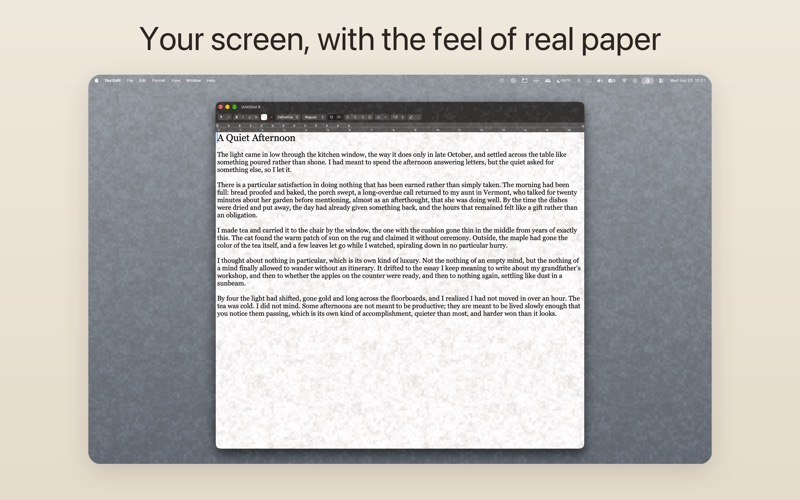
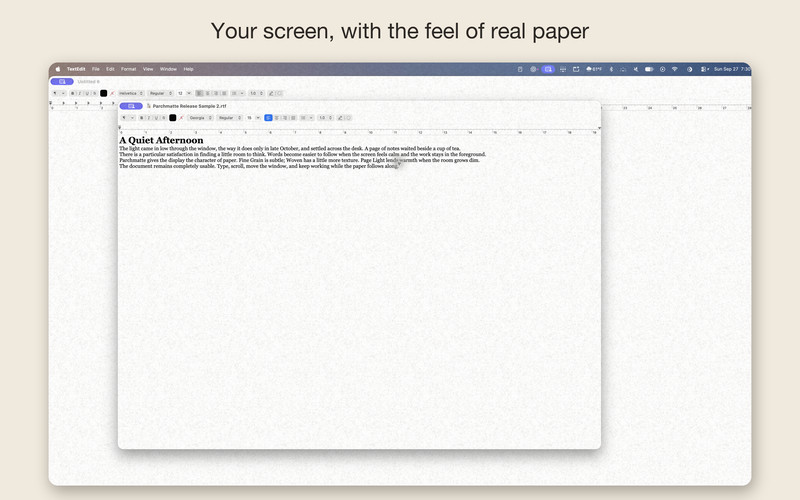
Refresh build 6 website media

diff --git a/index.html b/index.html
@@ -4,22 +4,22 @@
   <meta charset="utf-8">
   <meta name="viewport" content="width=device-width, initial-scale=1">
   <title>Parchmatte · paper for your screen</title>
-  <meta name="description" content="Parchmatte lays a fine paper grain and an optional warm desk-lamp tint over your Mac's screen. Free and open source, or $2.99 on the Mac App Store.">
+  <meta name="description" content="Parchmatte lays a fine paper grain and an optional warm Page Light tint over your Mac's screen. Free and open source, or $2.99 on the Mac App Store.">
   <link rel="icon" href="/favicon.png">
   <link rel="stylesheet" href="/style.css">
   <meta property="og:title" content="Parchmatte">
-  <meta property="og:description" content="A fine paper grain and a warm desk lamp for your Mac's screen.">
+  <meta property="og:description" content="A fine paper grain and warm Page Light for your Mac's screen.">
   <meta property="og:image" content="https://parchmatte.com/images/og.jpg">
   <meta name="twitter:card" content="summary_large_image">
   <meta name="twitter:title" content="Parchmatte">
-  <meta name="twitter:description" content="A fine paper grain and a warm desk lamp for your Mac's screen.">
+  <meta name="twitter:description" content="A fine paper grain and warm Page Light for your Mac's screen.">
   <meta name="twitter:image" content="https://parchmatte.com/images/og.jpg">
 </head>
 <body>
   <header class="hero wrap">
     <img src="/icon.png" alt="" width="112" height="112">
     <h1>Parchmatte</h1>
-    <p class="lede">Parchmatte gives your Mac's display the look and feel of real paper: a fine, matte grain and an optional warm desk lamp.</p>
+    <p class="lede">Parchmatte gives your Mac's display the look and feel of real paper: a fine grain and optional warm Page Light.</p>
   </header>
 
   <main class="wrap">
@@ -59,7 +59,7 @@
           <img class="shot" src="/images/shots/03-texture-1600.jpg" srcset="/images/shots/03-texture-800.jpg 800w, /images/shots/03-texture-1600.jpg 1600w" sizes="(max-width: 700px) 100vw, 50vw" width="1600" height="1000" loading="lazy" alt="Seven real-paper textures">
         </figure>
         <figure>
-          <img class="shot" src="/images/shots/04-desk-lamp-1600.jpg" srcset="/images/shots/04-desk-lamp-800.jpg 800w, /images/shots/04-desk-lamp-1600.jpg 1600w" sizes="(max-width: 700px) 100vw, 50vw" width="1600" height="1000" loading="lazy" alt="Page Light adds a warm tint for evening work">
+          <img class="shot" src="/images/shots/04-page-light-1600.jpg" srcset="/images/shots/04-page-light-800.jpg 800w, /images/shots/04-page-light-1600.jpg 1600w" sizes="(max-width: 700px) 100vw, 50vw" width="1600" height="1000" loading="lazy" alt="Page Light adds a warm tint for evening work">
         </figure>
         <figure>
           <img class="shot" src="/images/shots/05-per-window-1600.jpg" srcset="/images/shots/05-per-window-800.jpg 800w, /images/shots/05-per-window-1600.jpg 1600w" sizes="(max-width: 700px) 100vw, 50vw" width="1600" height="1000" loading="lazy" alt="Give each window its own paper">

diff --git a/scripts/check_release_shots.swift b/scripts/check_release_shots.swift
@@ -1,0 +1,72 @@
+#!/usr/bin/env swift
+// OCR gate for release images. It catches retired visible labels after a UI
+// rename and checks that key build-6 controls survived the final composition.
+import AppKit
+import Vision
+
+guard CommandLine.arguments.count == 3 else {
+    fputs("usage: swift check_release_shots.swift STORE_DIR SITE_SHOTS_DIR\n", stderr)
+    exit(2)
+}
+
+let storeDir = CommandLine.arguments[1]
+let siteDir = CommandLine.arguments[2]
+let stems = [
+    "01-hero", "02-menu", "03-texture", "04-page-light",
+    "05-per-window", "06-schedule",
+]
+let required: [String: [String]] = [
+    "02-menu": ["Page Light", "Strength", "Softness"],
+    "03-texture": [
+        "Fine Grain", "Chalkboard", "Woven", "Imprint", "Soft Leaf", "Felt",
+    ],
+    "04-page-light": ["Page Light", "Candlelight", "Glow"],
+    "05-per-window": ["Remove Paper from TextEdit Window", "Page Light"],
+    "06-schedule": ["Sunset to Sunrise", "Page Light"],
+]
+let retired = ["Desk Lamp", "Linen", "Press", "Vellum"]
+var failures: [String] = []
+
+func recognizedLines(_ path: String) throws -> [String] {
+    guard let image = NSImage(contentsOfFile: path),
+          let cgImage = image.cgImage(forProposedRect: nil, context: nil, hints: nil) else {
+        throw NSError(domain: "release-media", code: 1, userInfo: [
+            NSLocalizedDescriptionKey: "Cannot open \(path)"
+        ])
+    }
+    let request = VNRecognizeTextRequest()
+    request.recognitionLevel = .accurate
+    request.usesLanguageCorrection = false
+    try VNImageRequestHandler(cgImage: cgImage).perform([request])
+    return (request.results ?? []).compactMap { $0.topCandidates(1).first?.string }
+}
+
+for stem in stems {
+    for (kind, path) in [
+        ("store", "\(storeDir)/\(stem).png"),
+        ("site", "\(siteDir)/\(stem)-1600.jpg"),
+    ] {
+        do {
+            let lines = try recognizedLines(path)
+            let text = lines.joined(separator: "\n")
+            for phrase in required[stem] ?? [] where !text.localizedCaseInsensitiveContains(phrase) {
+                failures.append("\(kind) \(stem): missing \(phrase)")
+            }
+            for phrase in retired where text.localizedCaseInsensitiveContains(phrase) {
+                failures.append("\(kind) \(stem): retired label \(phrase)")
+            }
+            if lines.contains(where: { $0.trimmingCharacters(in: .whitespacesAndNewlines) == "Matte" }) {
+                failures.append("\(kind) \(stem): retired label Matte")
+            }
+            print("checked \(kind) \(stem)")
+        } catch {
+            failures.append("\(kind) \(stem): \(error)")
+        }
+    }
+}
+
+if !failures.isEmpty {
+    failures.forEach { fputs("\($0)\n", stderr) }
+    exit(1)
+}
+print("PASS: approved build-6 labels are visible; retired labels are absent")

diff --git a/scripts/render_release_shots.py b/scripts/render_release_shots.py
@@ -1,0 +1,133 @@
+#!/usr/bin/env python3
+"""Render captioned release images from unmodified macOS screen captures.
+
+Requires Pillow. The larger menu panels are crops of the same source capture,
+not recreated UI. Keep the raw captures alongside the store PNGs until review
+finishes, and inspect every final image before publishing it.
+"""
+
+from __future__ import annotations
+
+import argparse
+from dataclasses import dataclass
+from pathlib import Path
+
+from PIL import Image, ImageDraw, ImageFilter, ImageFont
+
+
+@dataclass(frozen=True)
+class Shot:
+    stem: str
+    caption: str
+    menu_crop: tuple[int, int, int, int] | None = None
+
+
+SHOTS = (
+    Shot("01-hero", "Your screen, with the feel of real paper"),
+    Shot("02-menu", "Strength and softness, right in the menu bar", (2660, 70, 3250, 1200)),
+    Shot("03-texture", "Seven real-paper textures", (2660, 70, 3550, 1220)),
+    Shot("04-page-light", "Page Light for evening work", (2660, 70, 3550, 1220)),
+    Shot("05-per-window", "Give each window its own paper", (2660, 70, 3340, 1580)),
+    Shot("06-schedule", "Turns on at sunset, off at sunrise", (2660, 70, 3730, 1230)),
+)
+
+CANVAS = (2880, 1800)
+PAPER = "#f0e9dd"
+INK = "#2c2825"
+FONT = "/System/Library/Fonts/HelveticaNeue.ttc"
+
+
+def rounded_layer(image: Image.Image, radius: int) -> Image.Image:
+    layer = image.convert("RGBA")
+    mask = Image.new("L", image.size, 0)
+    ImageDraw.Draw(mask).rounded_rectangle(
+        (0, 0, image.width - 1, image.height - 1), radius=radius, fill=255
+    )
+    layer.putalpha(mask)
+    return layer
+
+
+def place_with_shadow(
+    canvas: Image.Image, image: Image.Image, position: tuple[int, int], radius: int
+) -> None:
+    x, y = position
+    layer = rounded_layer(image, radius)
+    shadow = Image.new("RGBA", canvas.size, (0, 0, 0, 0))
+    shadow.paste((45, 37, 30, 95), (x + 8, y + 20, x + 8 + image.width, y + 20 + image.height), layer.getchannel("A"))
+    canvas.alpha_composite(shadow.filter(ImageFilter.GaussianBlur(26)))
+    canvas.alpha_composite(layer, position)
+
+
+def render(shot: Shot, raw_dir: Path, store_dir: Path, site_dir: Path) -> None:
+    source = raw_dir / f"{shot.stem}.png"
+    capture = Image.open(source).convert("RGB")
+    if capture.size != (4112, 2658):
+        raise ValueError(f"{source}: expected 4112x2658 physical capture, got {capture.size}")
+
+    canvas = Image.new("RGBA", CANVAS, PAPER)
+    title_font = ImageFont.truetype(FONT, 79)
+    draw = ImageDraw.Draw(canvas)
+    bbox = draw.textbbox((0, 0), shot.caption, font=title_font)
+    title_width = bbox[2] - bbox[0]
+    if title_width > 2630:
+        title_font = ImageFont.truetype(FONT, 70)
+        bbox = draw.textbbox((0, 0), shot.caption, font=title_font)
+        title_width = bbox[2] - bbox[0]
+    draw.text(((CANVAS[0] - title_width) // 2, 62), shot.caption, font=title_font, fill=INK)
+
+    # Remove a small right-edge wallpaper strip and empty screen bottom. The
+    # captured UI and overlay remain untouched.
+    desktop = capture.crop((0, 0, 4070, 2450))
+    desktop = desktop.resize((2530, 1523), Image.Resampling.LANCZOS)
+    place_with_shadow(canvas, desktop, (175, 225), 32)
+
+    if shot.menu_crop:
+        menu = capture.crop(shot.menu_crop)
+        ratio = min(1040 / menu.width, 1400 / menu.height)
+        menu = menu.resize(
+            (round(menu.width * ratio), round(menu.height * ratio)),
+            Image.Resampling.LANCZOS,
+        )
+        place_with_shadow(canvas, menu, (CANVAS[0] - menu.width - 125, 265), 30)
+
+    store_dir.mkdir(parents=True, exist_ok=True)
+    site_dir.mkdir(parents=True, exist_ok=True)
+    flattened = canvas.convert("RGB")
+    flattened.save(store_dir / f"{shot.stem}.png", optimize=True)
+    for width in (1600, 800):
+        flattened.resize((width, width * 5 // 8), Image.Resampling.LANCZOS).save(
+            site_dir / f"{shot.stem}-{width}.jpg", quality=90, subsampling=0, optimize=True
+        )
+
+
+def render_social_preview(raw_dir: Path, site_dir: Path) -> None:
+    capture = Image.open(raw_dir / "01-hero.png").convert("RGB")
+    canvas = Image.new("RGBA", (1200, 630), PAPER)
+    title = "Your screen, with the feel of real paper"
+    font = ImageFont.truetype(FONT, 51)
+    draw = ImageDraw.Draw(canvas)
+    box = draw.textbbox((0, 0), title, font=font)
+    draw.text(((1200 - (box[2] - box[0])) // 2, 30), title, font=font, fill=INK)
+    desktop = capture.crop((0, 0, 4070, 1885))
+    desktop = desktop.resize((1060, 491), Image.Resampling.LANCZOS)
+    place_with_shadow(canvas, desktop, (70, 105), 20)
+    canvas.convert("RGB").save(
+        site_dir.parent / "og.jpg", quality=90, subsampling=0, optimize=True
+    )
+
+
+def main() -> None:
+    parser = argparse.ArgumentParser()
+    parser.add_argument("raw_dir", type=Path)
+    parser.add_argument("store_dir", type=Path)
+    parser.add_argument("site_dir", type=Path)
+    args = parser.parse_args()
+    for shot in SHOTS:
+        render(shot, args.raw_dir, args.store_dir, args.site_dir)
+        print(f"rendered {shot.stem}")
+    render_social_preview(args.raw_dir, args.site_dir)
+    print("rendered social preview")
+
+
+if __name__ == "__main__":
+    main()

diff --git a/README.md b/README.md
@@ -4,7 +4,26 @@ The static website for [Parchmatte](https://github.com/Galactic-Luddite/parchmat
 the home page and the privacy policy at `/privacy/`, which the app's menu and
 its App Store listing link to.
 
-Plain HTML and CSS, with no build step. Served by GitHub Pages from `main`.
+Plain HTML and CSS, with no site build step. Served by GitHub Pages from `main`.
+
+## Release screenshots
+
+The 12 gallery images and `images/og.jpg` are rendered from six unmodified
+screen captures of the exact TestFlight build selected for review. The
+captioned 2880×1800 PNGs are uploaded to App Store Connect. The larger menu
+panels are crops of the same capture, never recreated interface elements.
+
+Keep the raw captures and store PNGs locally through review. To regenerate,
+install Pillow and run:
+
+```sh
+python3 scripts/render_release_shots.py RAW_DIR STORE_DIR images/shots
+swift scripts/check_release_shots.swift STORE_DIR images/shots
+```
+
+The OCR check requires the approved build 6 labels in the final store and
+website images and rejects retired labels. Inspect each image visually too;
+the check only covers text it can recognize.
 
 ## Going live
 
